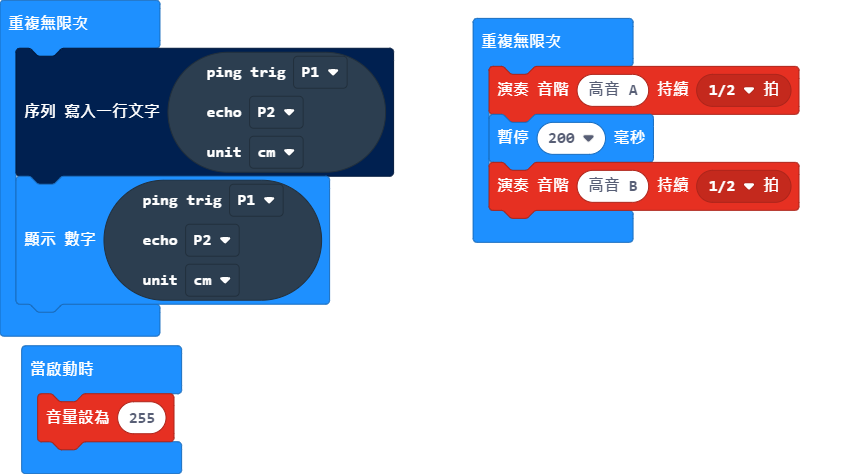
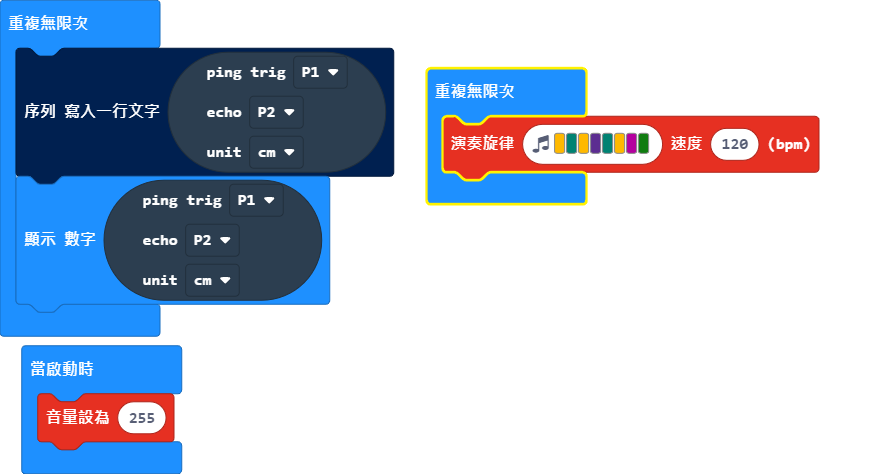
更新 main.blocks, main.ts

diff --git a/main.ts b/main.ts
@@ -12,7 +12,5 @@ basic.forever(function () {
     ))
 })
 basic.forever(function () {
-    music.playTone(880, music.beat(BeatFraction.Half))
-    basic.pause(200)
-    music.playTone(988, music.beat(BeatFraction.Half))
+    music.playMelody("A F A D F A C G ", 120)
 })
